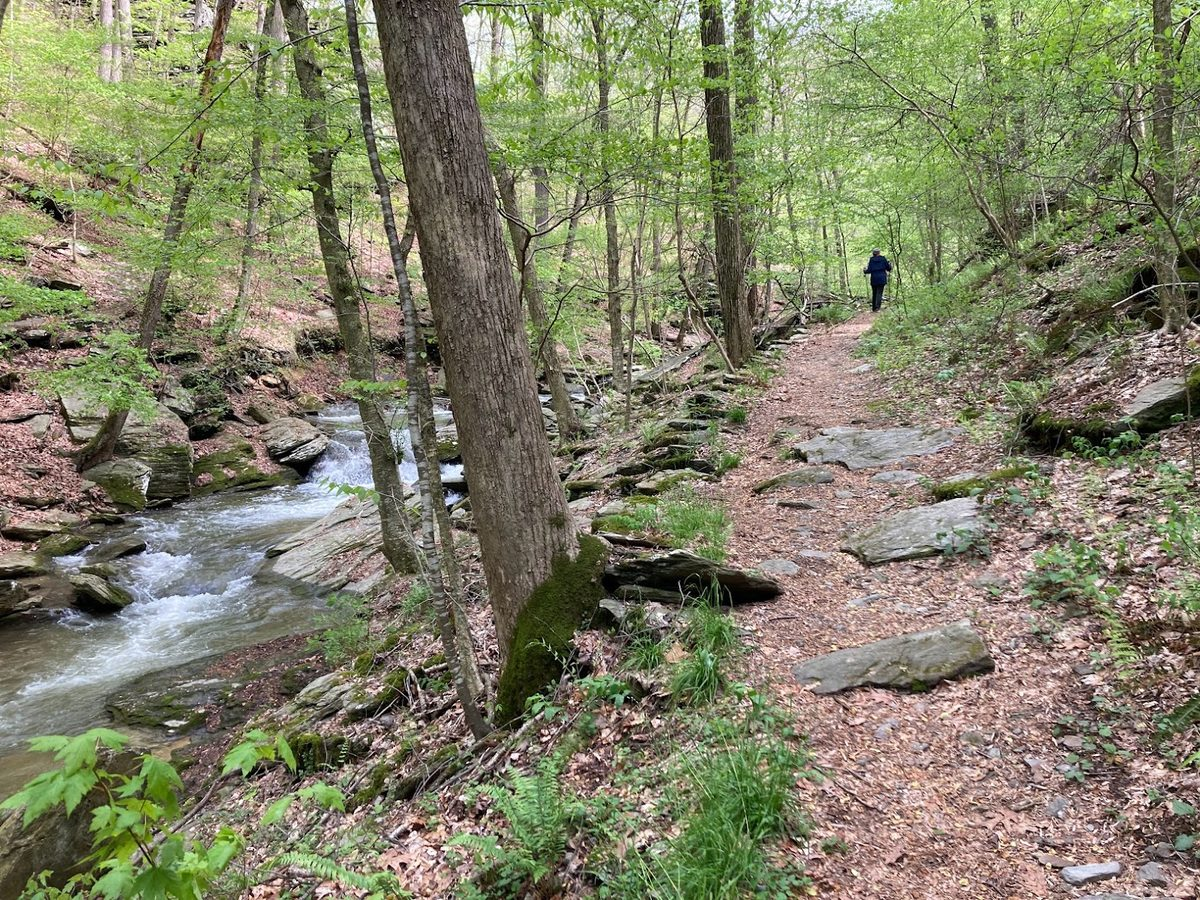
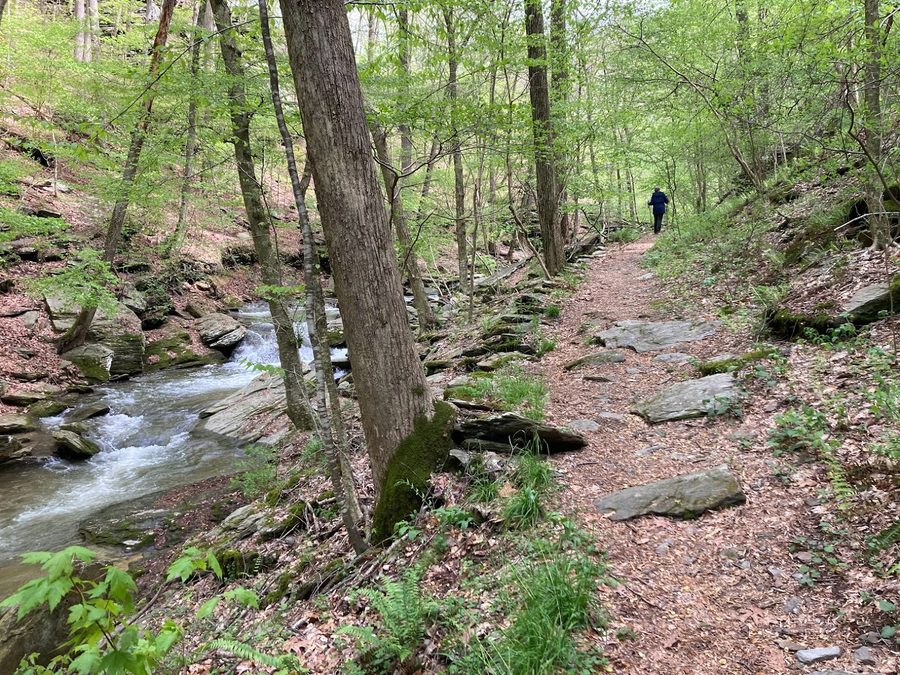
Halve the trail photo to 445px
At the full width of the venue line it read as a banner for the section
rather than an image belonging to one performance. The stored file drops
to 900x675 (244 KB) to match, still 2x for the new display width.

diff --git a/index.html b/index.html
@@ -188,9 +188,9 @@ p{margin:0 0 .45rem;}
    than size carrying the hierarchy at this depth. */
 .upcoming-sub{margin:.5rem 0 .1rem;font-size:1.1875rem;font-weight:600;}
 .venue{margin:0;}
-/* A photo introducing a single performance. Sized to the width the venue line
-   below it occupies on a full-width screen, so the two share a right edge. */
-.venue-photo{display:block;width:100%;max-width:891px;height:auto;border-radius:3px;margin:.55rem 0 .7rem;}
+/* A photo introducing a single performance. Half the width of the venue line
+   below it - small enough to sit as an aside rather than a banner. */
+.venue-photo{display:block;width:100%;max-width:445px;height:auto;border-radius:3px;margin:.55rem 0 .7rem;}
 
 /* =========================== PROSE LINKS ========================== */
 .wrap p a,.wrap .content-h a,.wrap .member-name a{color:var(--ink);text-decoration:none;border-bottom:1.5px solid var(--brass);padding-bottom:1px;}
@@ -245,7 +245,7 @@ footer{background:var(--pine);color:var(--ink);}
       <h1 class="page-title">Humane Performance Initiative</h1>
       <h3 class="content-h">Upcoming Performances</h3>
       <h4 class="member-name upcoming-sub"><a href="#quartet">Quartet Harriet</a></h4>
-      <img class="venue-photo" src="photos/chickies-creek-trail.jpg" alt="A wooded trail along Chickies Creek, with water running over rocks beside it" width="1200" height="900">
+      <img class="venue-photo" src="photos/chickies-creek-trail.jpg" alt="A wooded trail along Chickies Creek, with water running over rocks beside it" width="900" height="675">
       <p class="venue"><a href="https://www.urbanartshouse.org" target="_blank" rel="noopener">Urban Arts House</a>, 430 West Orange Street, Lancaster, PA — Friday, 6 November, 5:00 pm (First Friday). Free will offering.</p>
       <p class="venue"><a href="https://www.mollysphotography.com" target="_blank" rel="noopener">Molly S. Photography</a>, 128 East Grant Street, Lancaster, PA — Date to be determined</p>
       <h4 class="member-name upcoming-sub">Members of <a href="#quartet">Quartet Harriet</a></h4>
